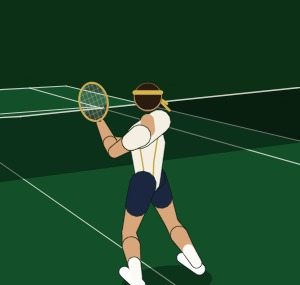
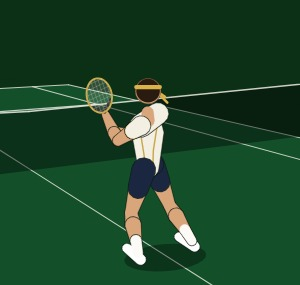
Show complete volley footwork in the reference cards

diff --git a/app/catalog.js b/app/catalog.js
@@ -1,2 +1,2 @@
 window.GS_CATALOG={"daily":[{"slug":"serve-plus-one","title":"The Serve Writes the Next Question","line":"Read the reply your serve creates, then use the space.","sit":"Your wide serves have pulled this returner off the court twice. Watch both returns.","clips":["bh","fh","fhhi","fvhi","lowfv","ready","serveW"],"flavour":"tactics"},{"slug":"short-ball","title":"The Short Ball Is Not Permission","line":"Short isn't enough. Height, balance and their position earn the attack.","sit":"Their slice lands short and stays low. You come forward to it; they're still deep.","clips":["bh","bhlo","bv","fh","fhhi","fhlo","fvhi","ready"],"flavour":"tactics"},{"slug":"the-line","title":"The Line Must Be Earned","line":"The open line is tempting. When is it actually on?","sit":"The line is open, but their low crosscourt pulls you wide, and you're late.","clips":["bh","bhlo","fh","fhhi","ready"],"flavour":"tactics"},{"slug":"the-winner","title":"The Winner Can Be the Wrong Shot","line":"One winner proves little. Compare the margin in each choice.","sit":"Off a low, neutral ball, you go down the line and clip the paint. Winner.","clips":["bh","bhlo","fh","fhhi","fhlo","ready"],"flavour":"tactics"},{"slug":"recovery","title":"The Centre Is Not the Plan","line":"Where you recover decides whether you reach their reply.","sit":"Your deep crosscourt pushes them outside the sideline. You finish balanced.","clips":["bh","bhlo","fh","fhhi","ready"],"flavour":"tactics"},{"slug":"open-court","title":"The Open Court Is Not Always Open","line":"Play the defender’s movement, not the empty space.","sit":"You have a comfortable short forehand. Watch where the defender is running before you choose.","clips":["bh","bhlo","fh","fhlo","ready"],"flavour":"tactics"},{"slug":"forehand-bill","title":"Your Forehand Leaves a Bill","line":"A run-around forehand has to pay for the way back.","sit":"A deep ball to your backhand. They're balanced and could go either way.","clips":["bh","fh","fhhi","fhlo","ready"],"flavour":"tactics"},{"slug":"the-lead","title":"The Lead That Makes You Smaller","line":"Ahead? Keep the depth that built the lead.","sit":"You lead 5–2. Your rally ball has started landing shorter.","clips":["bh","bhlo","fh","fhhi","ready"],"flavour":"tactics"},{"slug":"split-step","title":"A Perfect Split Step Can Be Late","line":"Land for their hit, not before it.","sit":"You reach your spot. Watch the split step and your first move.","clips":["bhlo","fh","ready"],"flavour":"net"},{"slug":"approach-volley","title":"Your Approach Shapes Your First Volley","line":"A deep approach builds an easy volley.","sit":"You're balanced on a short forehand. Their recovery leaves the line open.","clips":["bh","bv","fh","lowfv","ready"],"flavour":"net"},{"slug":"middle-return","title":"The Return That Shrinks Serve +1","line":"Deep through the middle takes the server’s weapon away.","sit":"A big first serve pulls you wide. The server stays back for their next ball.","clips":["bh","bhlo","fh","fhhi","ready","serveT","serveW"],"flavour":"tactics"},{"slug":"high-ball","title":"One High Ball. Two Opposite Answers.","line":"Find the contact, not the height.","sit":"A slower, high ball lands short. You're balanced, with time to move.","clips":["bh","bhlo","fh","fhChest","fhHigh","fhHigher","fhhi","ready"],"flavour":"tactics"},{"slug":"second-serve","title":"The Safe Second Serve Trap","line":"In is only the beginning.","sit":"Both second serves go in. Watch where the receiver meets each one.","clips":["bhChest","bhHigh","bhHigher","bhlo","fh","fhHigh","fhHigher","fhhi","ready","serveB","serveW"],"flavour":"tactics"},{"slug":"contact-clue","title":"Two Misses. One Clue.","line":"Check the space at contact first.","sit":"Your forehand goes into the net. Watch it again, held at the moment you hit it.","clips":["fh","fhCramped","ready"],"flavour":"technique"},{"slug":"running-around","title":"Running Around Is Not Hiding","line":"Earn the forehand. Cover its cost.","sit":"Your slice has bought time. Your forehand is your stronger shot.","clips":["bh","bhSlice","bhlo","fh","fhCramped","fhhi","fhlo","ready"],"flavour":"tactics"},{"slug":"net-rusher","title":"Net Rusher: Feet or Over Them","line":"They come in. Where they stop decides: at their feet, or over them.","sit":"They approach and come in. They stop just inside the service line as you hit.","clips":["bh","bv","fh","fhhi","fvhi","lowfv","ready","sm"],"flavour":"opponents"},{"slug":"pass-where-they-arent","title":"Pass Where They Aren't","line":"At the net they cover one side. Pass the side they left.","sit":"They approach and close in, shading toward your down-the-line side.","clips":["bh","bv","fh","fvhi","ready"],"flavour":"net"},{"slug":"late-is-the-culprit","title":"Late Is the Culprit","line":"A repeated miss is a clue. Check the contact before changing the swing.","sit":"You aim crosscourt, but your forehand flies wide to the right. Watch it again, held at contact.","clips":["bh","fh","ready"],"flavour":"technique"},{"slug":"the-moonballer","title":"The Moonballer: Take Their Time","line":"They loop it high and deep. Take their time, then take the net.","sit":"Another high, heavy ball comes to your forehand. At the baseline it will kick above your shoulder.","clips":["bh","bhlo","fh","fhChest","fhHigher","fhhi","ready","sm"],"flavour":"opponents"},{"slug":"the-pusher","title":"The Pusher: Change the Game","line":"They get everything back. Stop out-waiting them: change the game.","sit":"They're 2 m behind their baseline, looping everything back. This one lands short enough to step in on.","clips":["bhlo","bv","drop","fh","fvhi","lowfv","ready"],"flavour":"opponents"},{"slug":"pulled-wide","title":"Pulled Wide? Buy Time First","line":"Off the court? Buy time first, unless you got there early.","sit":"Their angle pulls you off the court. You reach it low and late; they're in the middle.","clips":["bh","bhlo","fh","fhhi","fhlo","ready"],"flavour":"tactics"},{"slug":"serve-away-from-the-lean","title":"Serve Away From the Lean","line":"The returner leans to cover one serve. Serve the side they left.","sit":"First serve from the deuce side. The returner has moved toward the T to protect their backhand.","clips":["bh","bhHigh","bhHigher","bhlo","fh","fhHigh","fhHigher","fhhi","fhlo","ready","serveB","serveT","serveW"],"flavour":"tactics"},{"slug":"the-big-hitter","title":"The Big Hitter: Time for You, Not Them","line":"Their ball comes fast and heavy. Win back your time; keep it out of their zone.","sit":"They hit big. Their crosscourt forehand is coming into your backhand corner at 125 km/h.","clips":["bh","bhSlice","bhlo","fh","fhlo","ready"],"flavour":"opponents"},{"slug":"the-lefty","title":"The Lefty: Find Their Backhand","line":"Your usual patterns land on a lefty's forehand. Turn them round.","sit":"They're left-handed. You've run around your backhand to hit a forehand.","clips":["bh","bhHigh","bhSlice","bhlo","fh","fhChest","fhHigh","fhlo","ready","serveB","serveT","serveW"],"flavour":"opponents"},{"slug":"find-your-return-spot","title":"Find Your Return Spot","line":"Back for the big first serve. In for the kick second serve.","sit":"They hit a big first serve, around 185 km/h, down the T.","clips":["bh","fh","fhChest","fhHigh","ready","serveT","serveW"],"flavour":"tactics"},{"slug":"answer-the-drop","title":"Answer the Drop","line":"You got to their drop. Where they go decides your answer.","sit":"They drop-shot you and stay mid-court, where they hit it. You get there in time.","clips":["fh","fvhi","lowfv","ready"],"flavour":"net"},{"slug":"attack-the-backhand","title":"Attack the Backhand the Long Way","line":"Their backhand is weak and they know it. Move them off it first.","sit":"Their backhand is the weak side, and they've started leaning toward it before you hit.","clips":["bh","bhlo","bv","fh","fhhi","ready"],"flavour":"tactics"},{"slug":"down-the-line","title":"When to Go Down the Line","line":"The line is about where they are, not how brave you are.","sit":"Their crosscourt lands short. You step in, set, and they're still getting back to the middle.","clips":["bh","bhlo","fh","fhhi","fhlo","ready"],"flavour":"tactics"},{"slug":"rushed-out-wide","title":"Rushed Out Wide","line":"Pulled wide? Compare the margin and recovery time each reply gives you.","sit":"Their crosscourt pulls you off the court on your forehand side, and you only just get there.","clips":["bh","fh","fhhi","ready"],"flavour":"tactics"},{"slug":"earned-attack","title":"Have You Earned the Attack?","line":"Read your arrival before taking the opening.","sit":"Their reply comes to your forehand. The far side is open.","clips":["fh","fhlo","ready"],"flavour":"tactics"},{"slug":"earned-defence","title":"Defence Can Change Before You Hit","line":"Your arrival changes the choices a wide ball offers.","sit":"Their ball takes you towards the sideline. Watch both players.","clips":["bhlo","fh","ready"],"flavour":"tactics"},{"slug":"earned-net","title":"Have You Earned the Net?","line":"Arrive, read the ball, then decide whether to follow.","sit":"Their reply lands inside the service line. They remain deep.","clips":["bhlo","fh","ready"],"flavour":"tactics"}],"predict":[{"slug":"predict-the-point","title":"Predict the Point: The Wide Serve Pattern","line":"Call the serve, the +1 and the finish. Then compare with a worked example.","sit":"30-30, deuce court. They crowd the middle to protect their backhand.","clips":["bh","bhChest","bhlo","fh","fhChest","fhhi","fhlo","ready","serveB","serveT","serveW"],"flavour":"predict"},{"slug":"predict-second-serve","title":"Predict the Point: Break Point on a Second Serve","line":"Call the return, the approach and the volley. Then compare with a worked example.","sit":"15-40. A slow second serve sits up on your forehand. The server stays back.","clips":["bh","bhlo","bv","fh","fhhi","ready","serveT"],"flavour":"predict"}],"play":[{"slug":"live-point-buy-time","title":"Buy Time. Use It.","line":"Your reply buys time. Your movement puts it to work.","sit":"","clips":["bh","fh","fhhi","fhlo","ready"],"flavour":"play","livePoint":true,"followup":"live-point-other-wing","decisionCount":4,"edition":"connected-four-v2","family":"recovery-time","learningSignals":["reply","recovery","direction","next-reply"]},{"slug":"live-point-other-wing","title":"Other Wing. Same Read?","line":"A new point on the other wing. Read it afresh.","sit":"","clips":["bhlo","fh","ready"],"flavour":"play","livePoint":true,"transferOf":"live-point-buy-time","decisionCount":2,"family":"recovery-time","learningSignals":["reply","recovery"]},{"slug":"live-point-make-room","title":"Make Room. Use It.","line":"Move early. Read the contact you create.","sit":"","clips":["fh","ready"],"flavour":"play","livePoint":true,"followup":"live-point-short-low","decisionCount":2,"edition":"six-play-v1","family":"contact-space","learningSignals":["preparation","contact-read"],"liveIntro":"Their ball is coming to your backhand side. You have time to move around it.","liveFeedback":{"summaries":{"10":"You made room. Check the ball and your balance before choosing.","11":"You made room and chose a reply that fits your preparation.","01":"You left less preparation time, then chose a reply with margin.","00":"The wait squeezed your preparation. The open side still carried risk."}},"returnPrompt":"The next point is shorter and lower. Does early arrival still earn a drive?"},{"slug":"live-point-short-low","title":"Short Can Be Low.","line":"Early arrival helps. A low ball still needs lift.","sit":"","clips":["bhlo","fh","ready"],"flavour":"play","livePoint":true,"transferOf":"live-point-make-room","decisionCount":2,"edition":"six-play-v1","family":"contact-space","learningSignals":["preparation","contact-read"],"liveIntro":"A short ball is coming to your backhand. There is space ahead of you.","liveFeedback":{"summaries":{"10":"You moved early, but the low ball still needed clearance.","11":"You moved early and respected the low contact.","01":"You arrived hurried, then correctly gave the low ball clearance.","00":"The wait cost preparation time. The flat attempt then found the net."}}},{"slug":"live-point-serve-see","title":"Serve. Then See.","line":"Recover after the serve. Read what comes back.","sit":"","clips":["fh","fhhi","ready","serveW"],"flavour":"play","livePoint":true,"followup":"live-point-return-deep","decisionCount":2,"edition":"six-play-v1","family":"serve-readiness","learningSignals":["serve-recovery","return-read"],"liveIntro":"Your wide serve is on its way. The returner has not struck it yet.","liveFeedback":{"summaries":{"10":"You recovered. Let the actual return guide the next shot.","11":"You recovered, read the short return and chose from an organised contact.","01":"You corrected the early guess and chose a larger target.","00":"You guessed early, then pressed the angle while still adjusting."}},"returnPrompt":"The next return comes deeper. Read what it permits before using the same plan."},{"slug":"live-point-return-deep","title":"The Return Pushes Back.","line":"A deeper return changes the plan.","sit":"","clips":["fh","fhhi","ready","serveW"],"flavour":"play","livePoint":true,"transferOf":"live-point-serve-see","decisionCount":2,"edition":"six-play-v1","family":"serve-readiness","learningSignals":["serve-recovery","return-read"],"liveIntro":"Your wide serve is travelling. The returner can still change the next ball.","liveFeedback":{"summaries":{"10":"You recovered, but forced the angle from a deeper contact.","11":"You recovered early and changed the plan for the deeper return.","01":"You corrected your position and adapted to the deeper return.","00":"The early guess cost preparation. The forced angle then went wide."}}},{"slug":"saturday-point-1","title":"Saturday Point #1","line":"One point, built from five of your lessons. Each shot: the one you want to hit, or the one that wins.","sit":"30-30, deuce court. The returner stands close to the middle to protect their backhand.","clips":["bh","bhlo","fh","fhChest","fhhi","fhlo","ready","serveT","serveW"],"flavour":"play","uses":["serve-plus-one","short-ball","open-court","the-line","the-winner"]},{"slug":"saturday-point-2","title":"Saturday Point #2","line":"A return game at 5-2, built from five more of your lessons. Each shot: the tempting one, or the one that wins.","sit":"You lead 5–2. Their serve: a big first serve, wide to your forehand.","clips":["bh","bhlo","bv","fh","fhhi","ready","serveW"],"flavour":"play","uses":["middle-return","the-lead","recovery","approach-volley","split-step"]},{"slug":"saturday-point-3","title":"Saturday Point #3","line":"Your serve at 30-40, built from five more of your lessons. Each shot: the tempting one, or the one that wins.","sit":"30–40. You missed your first serve.","clips":["bh","bhChest","bhHigher","bhSlice","bhlo","fh","fhCramped","fhHigher","fhhi","fvhi","lowfv","ready","serveB"],"flavour":"play","uses":["second-serve","high-ball","running-around","contact-clue","net-rusher"]},{"slug":"saturday-point-4","title":"Saturday Point #4: The Pusher","line":"One point against a pusher, built from five more of your lessons. Each shot: the tempting one, or the one that wins.","sit":"30–15. The returner has shaded wide to cover your wide serve.","clips":["bh","bhHigher","drop","fh","fhHigher","fhhi","fhlo","ready","serveT","serveW"],"flavour":"play","uses":["serve-away-from-the-lean","forehand-bill","pulled-wide","down-the-line","the-pusher"]},{"slug":"saturday-point-5","title":"Saturday Point #5: The Big Hitter","line":"Break point against a big hitter, built from five more of your lessons. Each shot: the tempting one, or the one that wins.","sit":"30–40, break point. Their big first serve is coming down the T.","clips":["bh","bhlo","fh","fhChest","fhHigher","fhhi","fhlo","fvhi","ready","serveT"],"flavour":"play","uses":["find-your-return-spot","the-big-hitter","attack-the-backhand","the-moonballer","answer-the-drop"]},{"slug":"midweek-point-1","title":"Midweek Point #1","line":"Three shots from three of your lessons. A quick top-up between Saturdays.","sit":"15–30. Their second serve is a high, heavy kick.","clips":["bh","bhlo","fh","fhChest","fhhi","ready","serveT"],"flavour":"play","uses":["find-your-return-spot","rushed-out-wide","down-the-line"]},{"slug":"play-the-point","title":"Play the Point","line":"Three shots, your calls. Each choice decides what happens next.","sit":"","clips":["bh","bhlo","fh","fhChest","fhhi","ready","serveT","serveW"],"flavour":"play"}],"flavours":[{"key":"tactics","name":"Court tactics","lessons":["serve-plus-one","short-ball","the-line","the-winner","recovery","open-court","forehand-bill","the-lead","middle-return","high-ball","second-serve","running-around","pulled-wide","serve-away-from-the-lean","find-your-return-spot","attack-the-backhand","down-the-line","rushed-out-wide","earned-attack","earned-defence","earned-net"]},{"key":"opponents","name":"Opponents","lessons":["the-moonballer","the-pusher","net-rusher","the-big-hitter","the-lefty"]},{"key":"net","name":"Net play","lessons":["approach-volley","pass-where-they-arent","split-step","answer-the-drop"]},{"key":"technique","name":"Technique","lessons":["late-is-the-culprit","contact-clue"]},{"key":"predict","name":"Predict the Point","lessons":["predict-the-point","predict-second-serve"]},{"key":"play","name":"Play the Point","lessons":["live-point-buy-time","live-point-other-wing","live-point-make-room","live-point-short-low","live-point-serve-see","live-point-return-deep","saturday-point-1","saturday-point-2","saturday-point-3","saturday-point-4","saturday-point-5","midweek-point-1","play-the-point"]}]};
-window.GS_VERSION="a7a5652bba";
+window.GS_VERSION="bf749dd493";

diff --git a/app/index.html b/app/index.html
@@ -898,10 +898,10 @@ body.cine-on .foot{position:relative;z-index:2;opacity:.6}
 <div class="gs-main"><header class="gs-hero gs-hero-header"><a class="gs-hero-wordmark" href="./?home=1" aria-label="GameSharp home"><div class="gs-hero-logo home-logo">GAME<span>SHARP</span></div><div class="gs-hero-beside">See the game<br>differently</div></a><div class="gs-hero-botrow"><div class="gs-hero-slogan">See clearer. Think sharper.</div><div class="gs-hero-streak-wrap"><div class="gs-streak-chip" id="streak"></div></div><button class="gs-home-profile" id="profile" aria-label="Player level" type="button">👤</button></div></header>
 <main id="main" tabindex="-1"></main><p class="foot">We use a random browser ID to measure app opens, lesson activity and feedback. Please keep personal details out of comments.</p><div class="log" id="log"></div></div>
 <nav class="gs-bottom-nav" aria-label="Main navigation"><a class="gs-bnav-item" href="./?home=1" data-nav="Home" aria-label="Home"><svg class="gs-bnav-icon" viewBox="0 0 24 24" fill="none" stroke="currentColor" stroke-width="2" aria-hidden="true"><path d="M3 9l9-7 9 7v11H3z"/><path d="M9 22V12h6v10"/></svg><span>Home</span></a><a class="gs-bnav-item" href="?review=1" data-nav="Sharpen" aria-label="Sharpen"><svg class="gs-bnav-icon" viewBox="0 0 24 24" fill="none" stroke="currentColor" stroke-width="2" aria-hidden="true"><path d="M2 17l6-6 5 5 9-9M16 7h6v6"/></svg><span>Sharpen</span></a><a class="gs-bnav-item" href="?all=1" data-nav="Explore" aria-label="Explore"><svg class="gs-bnav-icon" viewBox="0 0 24 24" fill="none" stroke="currentColor" stroke-width="2" aria-hidden="true"><circle cx="12" cy="12" r="10"/><path d="M16 8l-3 5-5 3 3-5z"/></svg><span>Explore</span></a></nav></div>
-<script src="config.js?v=a7a5652bba"></script><script src="catalog.js?v=a7a5652bba"></script><script src="app.js?v=a7a5652bba"></script>
-<script src="sharpen.js?v=a7a5652bba"></script>
-<script src="sfx.js?v=a7a5652bba"></script>
-<script src="cine.js?v=a7a5652bba"></script>
+<script src="config.js?v=bf749dd493"></script><script src="catalog.js?v=bf749dd493"></script><script src="app.js?v=bf749dd493"></script>
+<script src="sharpen.js?v=bf749dd493"></script>
+<script src="sfx.js?v=bf749dd493"></script>
+<script src="cine.js?v=bf749dd493"></script>
 <script>
 (function(){
 const A=GSApp,S=A.S,$=id=>document.getElementById(id),q=new URLSearchParams(location.search),ALL=q.has("all"),REVIEW=q.has("review");

diff --git a/app/play.html b/app/play.html
@@ -367,13 +367,13 @@ details.note a{color:var(--gold)}
   w.className=m; w.dataset.t0=performance.now(); w.hidden=false;
 })();
 </script>
-<script src="config.js?v=a7a5652bba"></script>
-<script src="catalog.js?v=a7a5652bba"></script>
-<script src="app.js?v=a7a5652bba"></script>
-<script src="sfx.js?v=a7a5652bba"></script>
+<script src="config.js?v=bf749dd493"></script>
+<script src="catalog.js?v=bf749dd493"></script>
+<script src="app.js?v=bf749dd493"></script>
+<script src="sfx.js?v=bf749dd493"></script>
 <script>
 (function(){
-const A=GSApp, V="a7a5652bba", slug=new URLSearchParams(location.search).get("l"), L=A.bySlug(slug), ld=document.getElementById("loading");
+const A=GSApp, V="bf749dd493", slug=new URLSearchParams(location.search).get("l"), L=A.bySlug(slug), ld=document.getElementById("loading");
 if(!L){location.replace("./?home=1");return;}
 GSSfx.configureVoice(slug);
 window.GS_HOME_URL="./?home=1";   /* Home never auto-starts a lesson when you come back from one */
